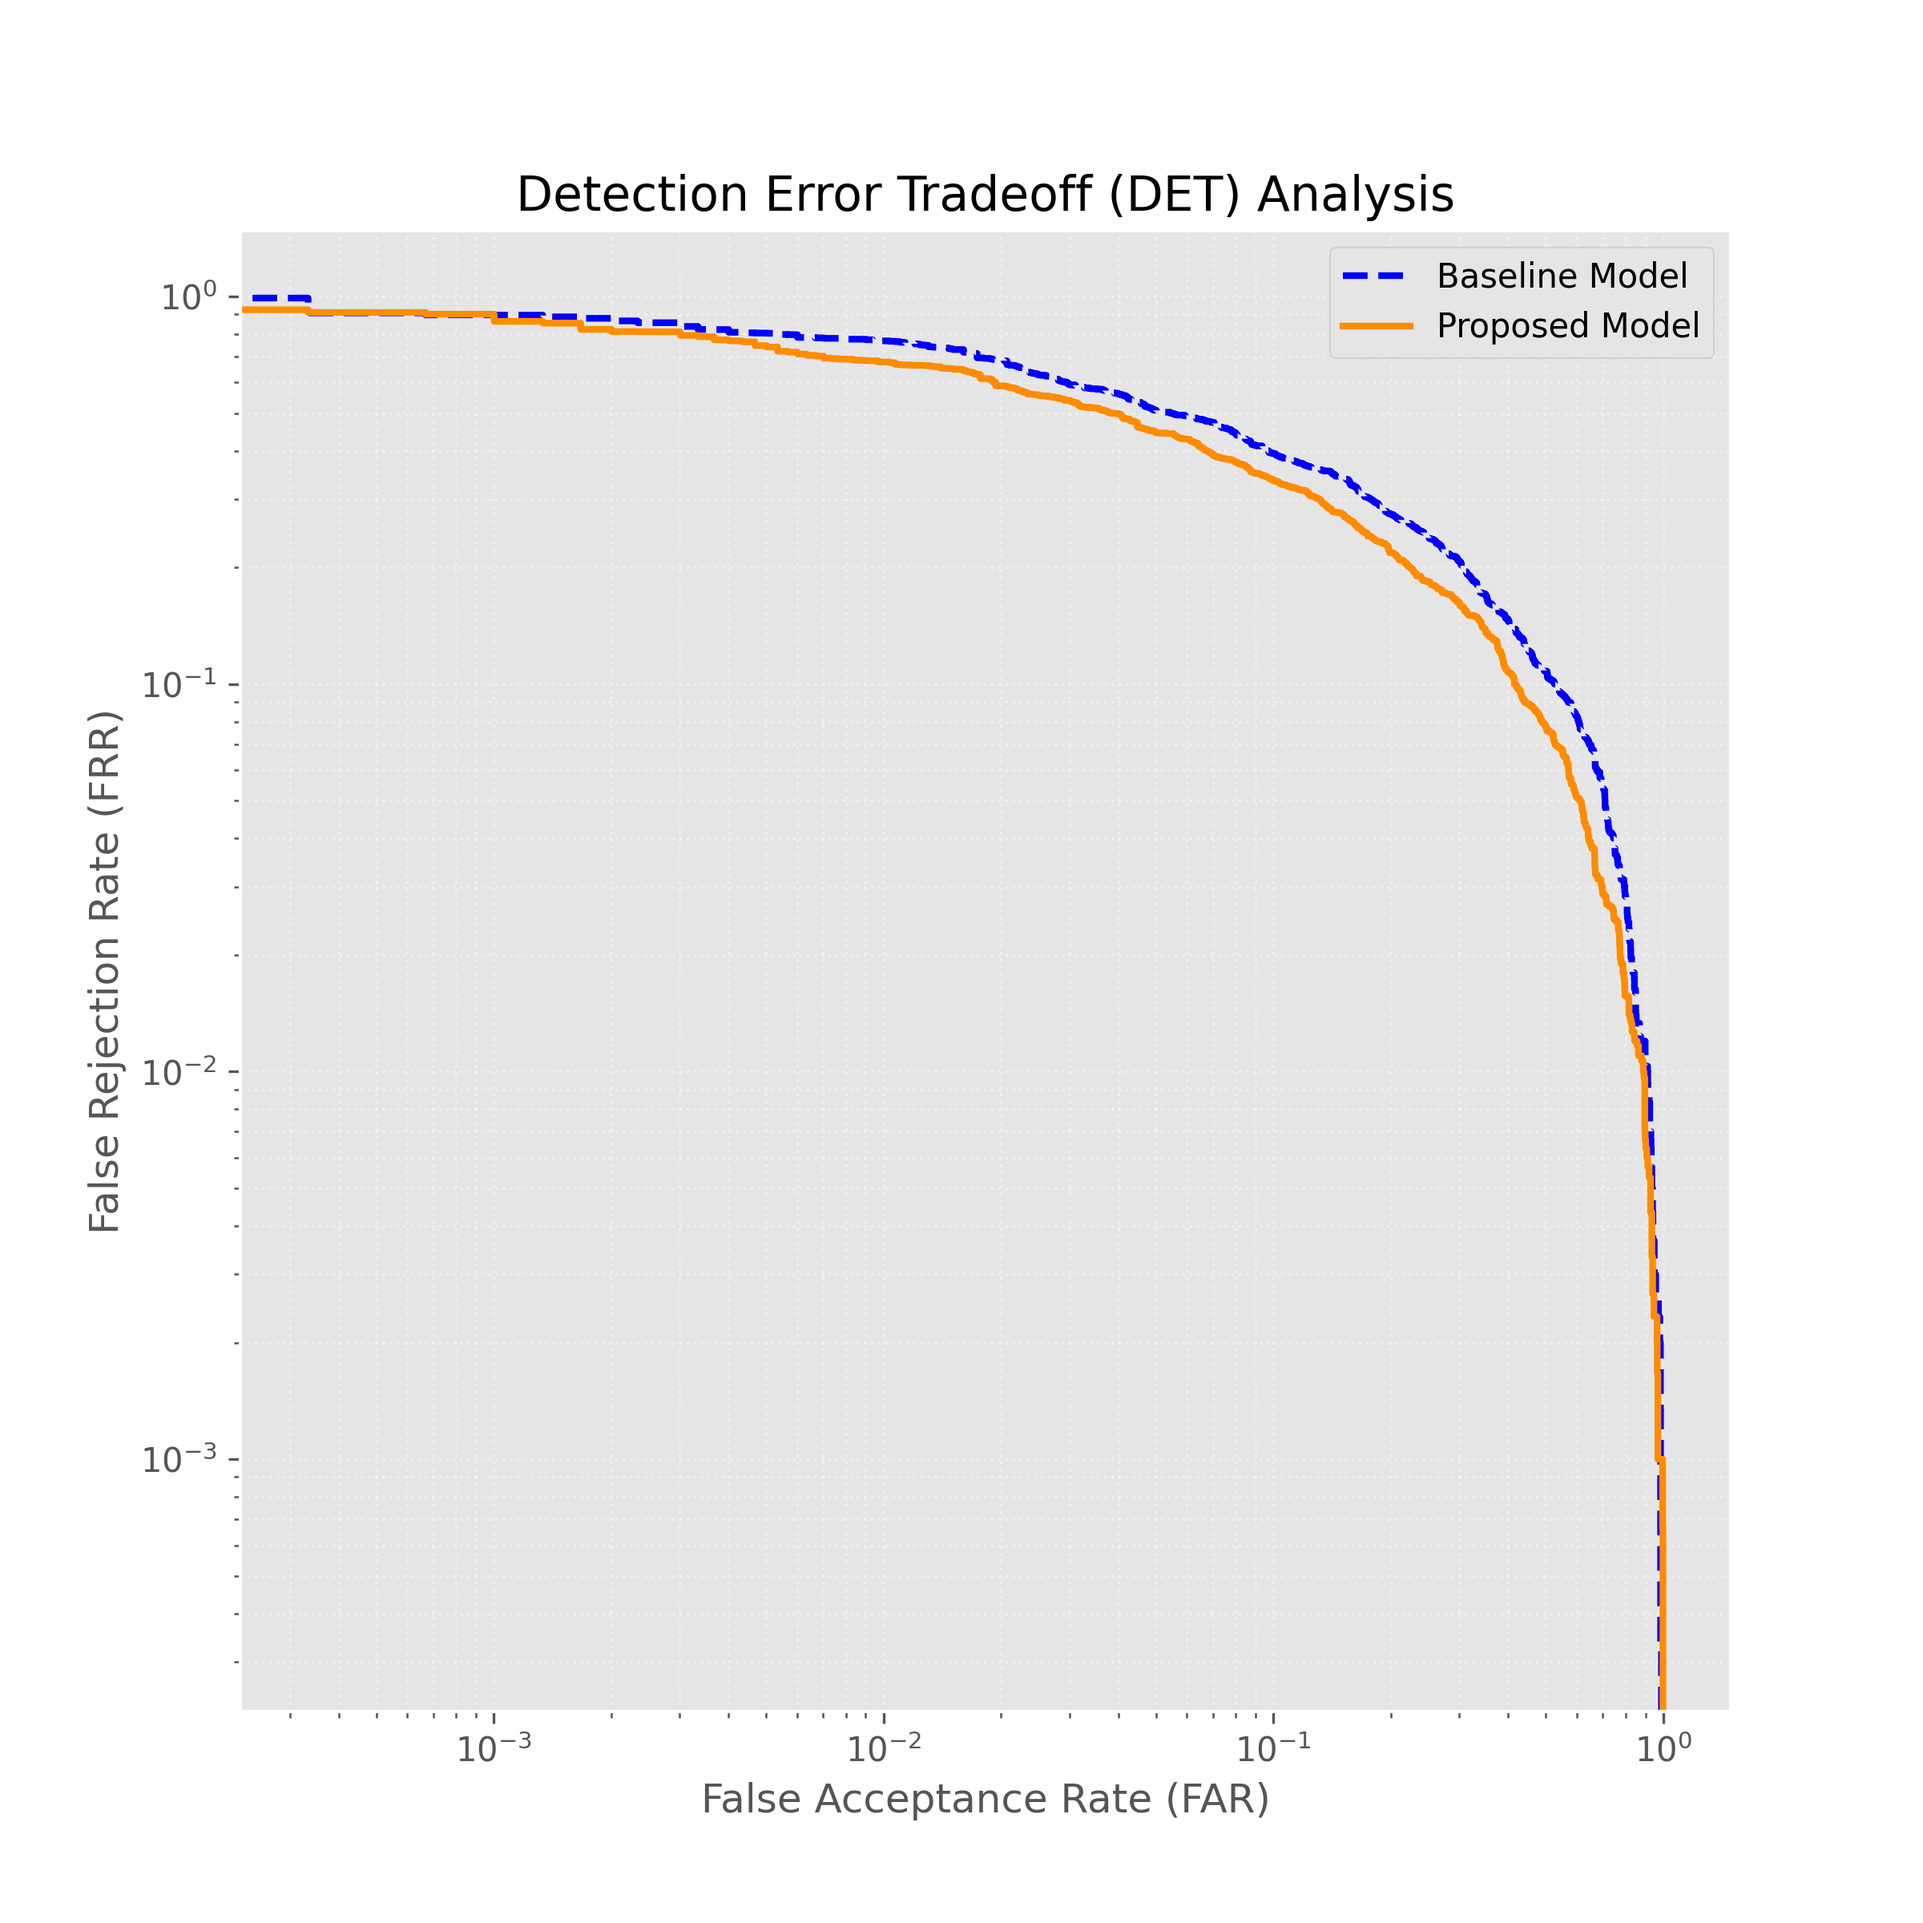
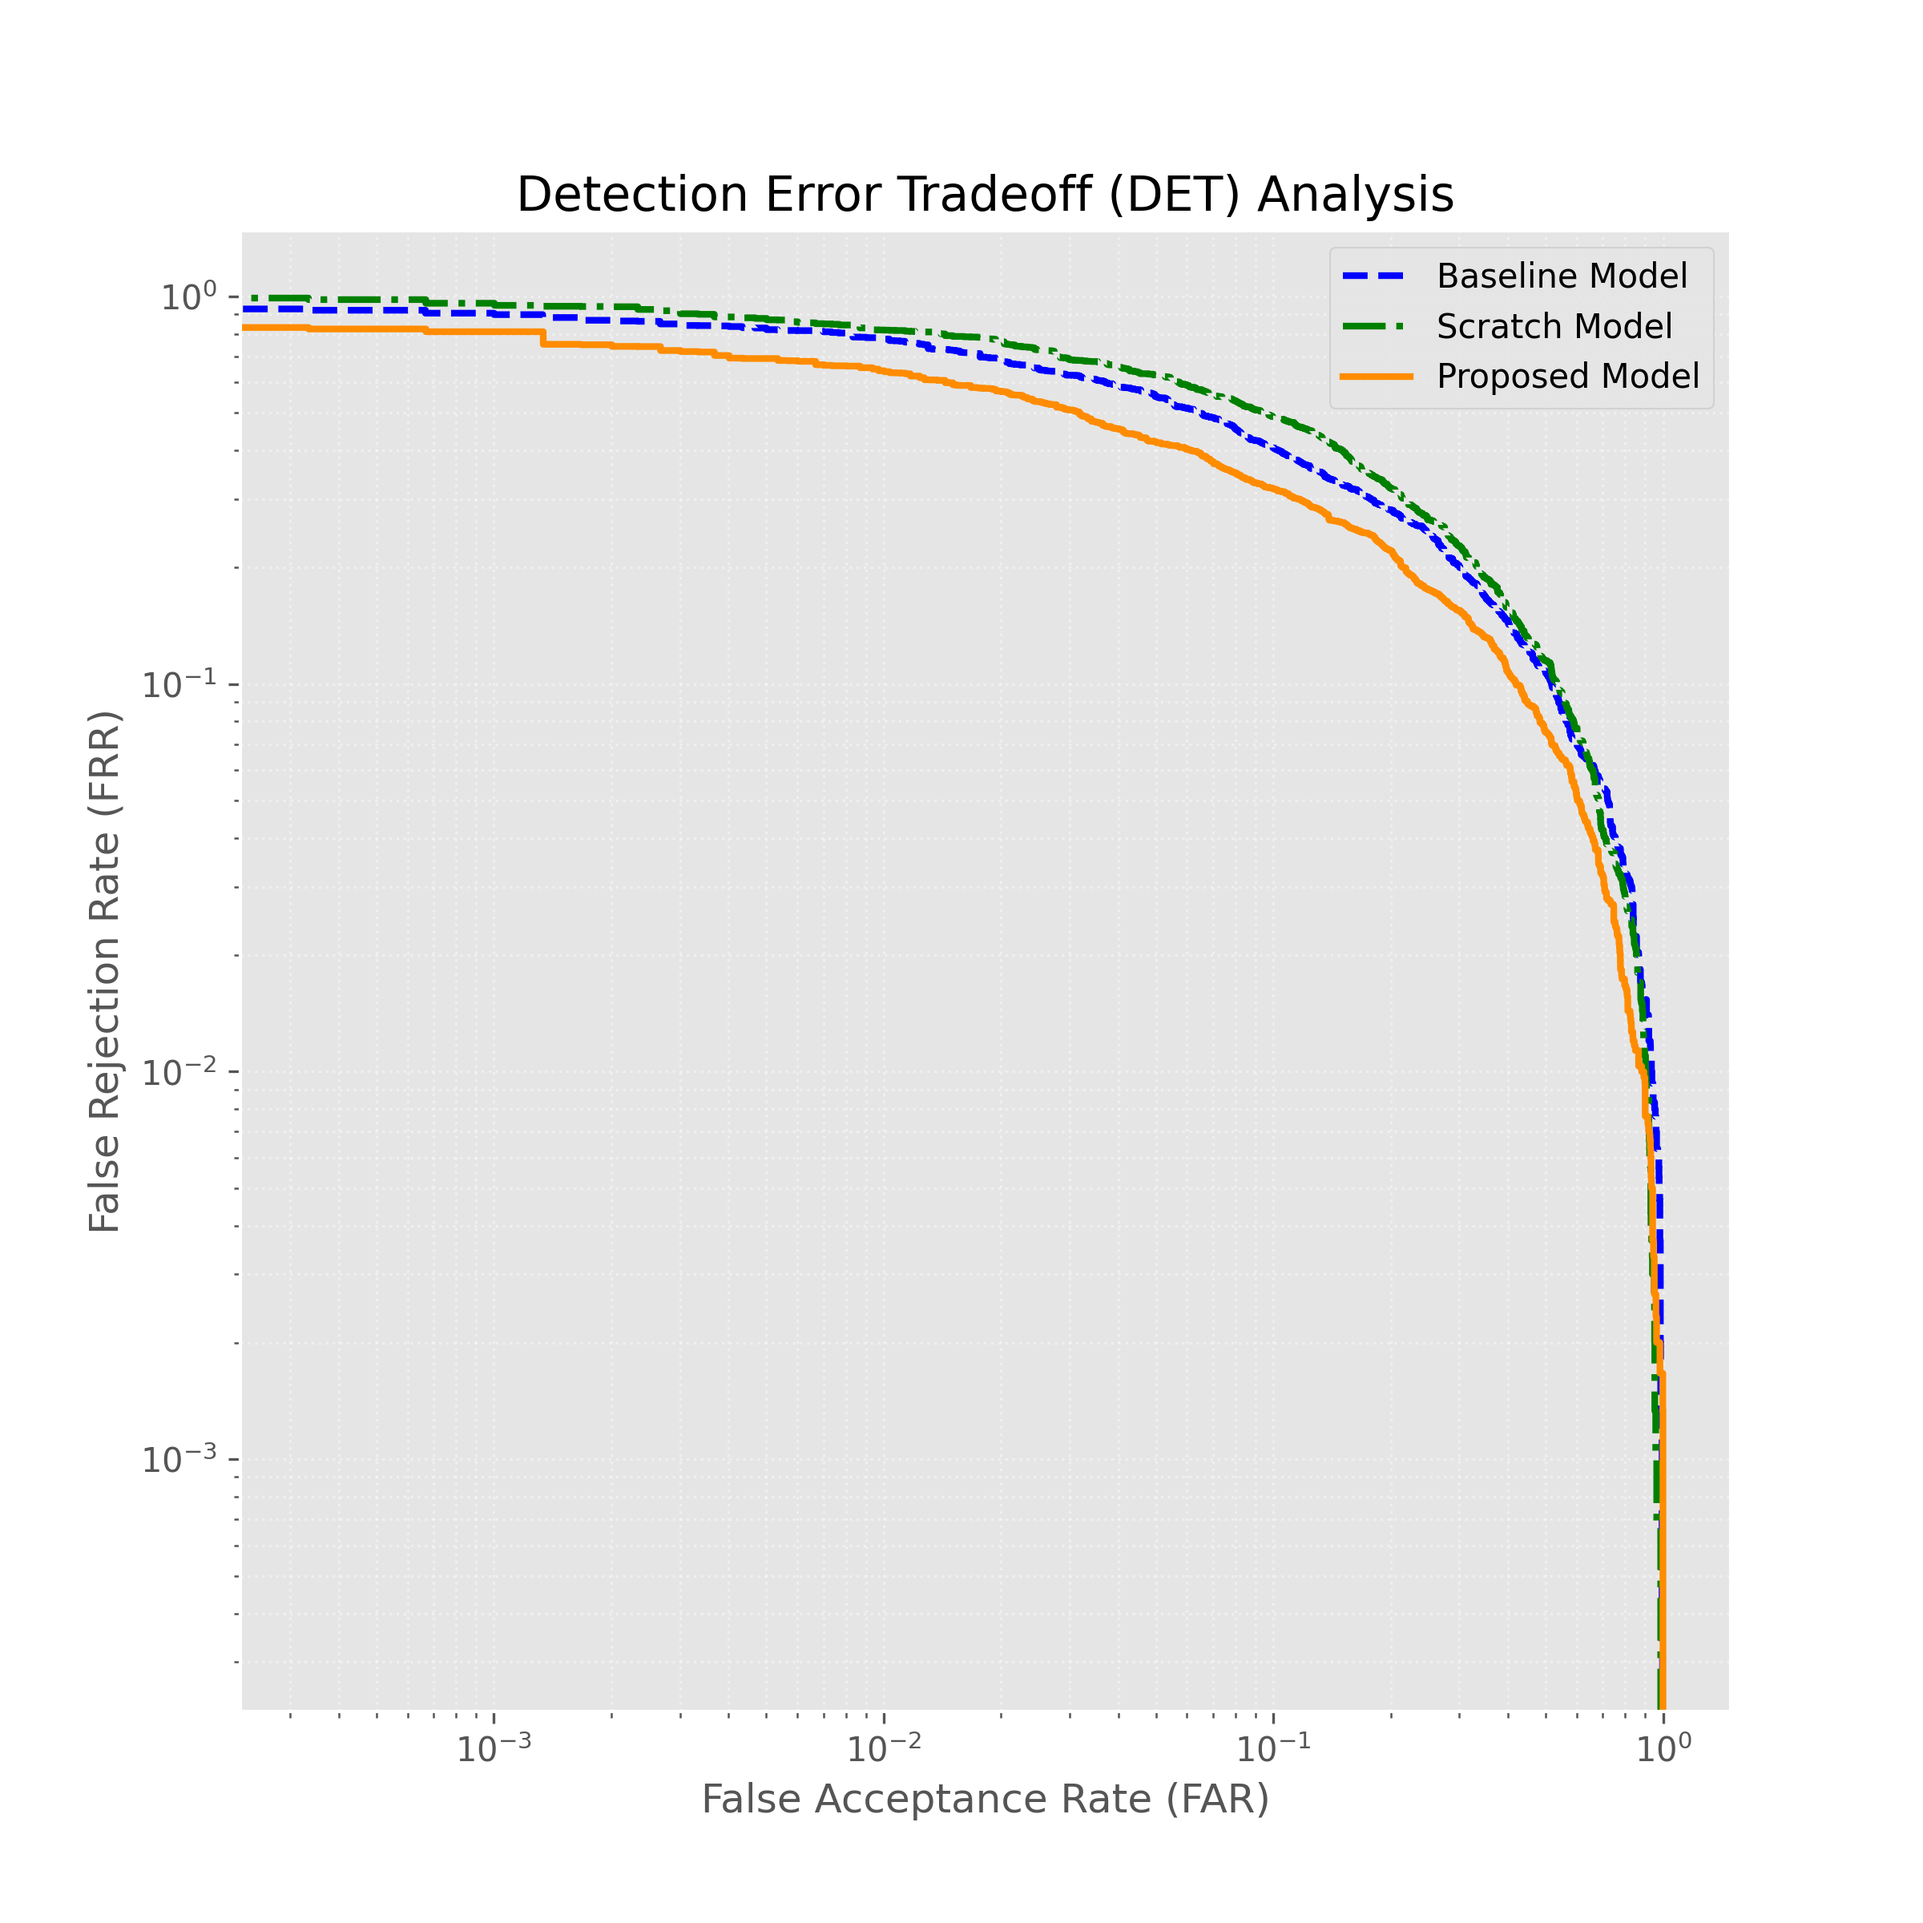
Update comparison visuals, training scripts, and charts

diff --git a/comparative_visuals.py b/comparative_visuals.py
@@ -3,6 +3,7 @@ import torch.nn.functional as F
 from torch.utils.data import DataLoader
 from torchvision import datasets, transforms
 from model import Sim2RealBackbone
+from model_scratch import Sim2RealBackbone as ScratchBackbone
 from sklearn.manifold import TSNE
 from sklearn.metrics import roc_curve, det_curve
 import matplotlib.pyplot as plt
@@ -15,15 +16,16 @@ from tqdm import tqdm
 LFW_DIR = "./dataset/lfw_aligned"
 BASELINE_PATH = "./saved_models/baseline_model.pth"
 PROPOSED_PATH = "./saved_models/best_model.pth"
+SCRATCH_PATH = "./saved_models/best_scratch_model.pth"
 DEVICE = "cuda" if torch.cuda.is_available() else "cpu"
 OUTPUT_DIR = "./final_comparison_plots"
 os.makedirs(OUTPUT_DIR, exist_ok=True)
 
 plt.style.use('ggplot')
 
-def get_scores_and_embeddings(model_path, dataset):
+def get_scores_and_embeddings(model_path, dataset, model_class=Sim2RealBackbone):
     print(f"Processing {os.path.basename(model_path)}...")
-    model = Sim2RealBackbone(pretrained=False).to(DEVICE)
+    model = model_class(pretrained=False).to(DEVICE)
     model.load_state_dict(torch.load(model_path, map_location=DEVICE))
     model.eval()
     
@@ -71,9 +73,9 @@ def calculate_pair_scores(embeddings, labels, num_pairs=3000):
             
     return pos_scores, neg_scores
 
-def plot_histogram_comparison(b_pos, b_neg, p_pos, p_neg):
+def plot_histogram_comparison(b_pos, b_neg, s_pos, s_neg, p_pos, p_neg):
     """ SCORE DISTRIBUTION """
-    fig, axes = plt.subplots(1, 2, figsize=(14, 6), sharey=True)
+    fig, axes = plt.subplots(1, 3, figsize=(21, 6), sharey=True)
     
     # Baseline
     sns.kdeplot(b_neg, fill=True, color='red', label='Different IDs', ax=axes[0], alpha=0.3)
@@ -84,25 +86,39 @@ def plot_histogram_comparison(b_pos, b_neg, p_pos, p_neg):
     axes[0].legend()
     axes[0].grid(True, alpha=0.3)
 
-    # Proposed
-    sns.kdeplot(p_neg, fill=True, color='red', label='Different IDs', ax=axes[1], alpha=0.3)
-    sns.kdeplot(p_pos, fill=True, color='green', label='Same IDs', ax=axes[1], alpha=0.3)
-    axes[1].set_title(f"Proposed (Texture-Regularized)")
+    # Scratch
+    sns.kdeplot(s_neg, fill=True, color='red', label='Different IDs', ax=axes[1], alpha=0.3)
+    sns.kdeplot(s_pos, fill=True, color='green', label='Same IDs', ax=axes[1], alpha=0.3)
+    axes[1].set_title(f"Scratch Model")
     axes[1].set_xlabel("Cosine Similarity")
     axes[1].set_xlim(-0.5, 1.0)
     axes[1].legend()
     axes[1].grid(True, alpha=0.3)
+
+    # Proposed
+    sns.kdeplot(p_neg, fill=True, color='red', label='Different IDs', ax=axes[2], alpha=0.3)
+    sns.kdeplot(p_pos, fill=True, color='green', label='Same IDs', ax=axes[2], alpha=0.3)
+    axes[2].set_title(f"Proposed (Texture-Regularized)")
+    axes[2].set_xlabel("Cosine Similarity")
+    axes[2].set_xlim(-0.5, 1.0)
+    axes[2].legend()
+    axes[2].grid(True, alpha=0.3)
     
     plt.suptitle("Impact of Shape Bias on Score Separation", fontsize=16)
     plt.savefig(f"{OUTPUT_DIR}/cmp_1_histograms.png", dpi=300)
     print("Saved Histogram.")
 
-def plot_det_comparison(b_pos, b_neg, p_pos, p_neg):
+def plot_det_comparison(b_pos, b_neg, s_pos, s_neg, p_pos, p_neg):
     """ DET CURVE (Security Standard) """
     # Baseline Metrics
     b_y_true = [1]*len(b_pos) + [0]*len(b_neg)
     b_y_score = b_pos + b_neg
     fpr_b, fnr_b, _ = det_curve(b_y_true, b_y_score)
+
+    # Scratch Metrics
+    s_y_true = [1]*len(s_pos) + [0]*len(s_neg)
+    s_y_score = s_pos + s_neg
+    fpr_s, fnr_s, _ = det_curve(s_y_true, s_y_score)
     
     # Proposed Metrics
     p_y_true = [1]*len(p_pos) + [0]*len(p_neg)
@@ -111,6 +127,7 @@ def plot_det_comparison(b_pos, b_neg, p_pos, p_neg):
     
     plt.figure(figsize=(8, 8))
     plt.plot(fpr_b, fnr_b, label="Baseline Model", color="blue", linestyle="--", lw=2)
+    plt.plot(fpr_s, fnr_s, label="Scratch Model", color="green", linestyle="-.", lw=2)
     plt.plot(fpr_p, fnr_p, label="Proposed Model", color="darkorange", lw=2)
     
     plt.xscale('log')
@@ -134,14 +151,18 @@ def main():
     #  Data for Baseline
     emb_b, lbl_b = get_scores_and_embeddings(BASELINE_PATH, dataset)
     b_pos, b_neg = calculate_pair_scores(emb_b, lbl_b)
+
+    #  Data for Scratch
+    emb_s, lbl_s = get_scores_and_embeddings(SCRATCH_PATH, dataset, model_class=ScratchBackbone)
+    s_pos, s_neg = calculate_pair_scores(emb_s, lbl_s)
     
     #  Data for Proposed
     emb_p, lbl_p = get_scores_and_embeddings(PROPOSED_PATH, dataset)
     p_pos, p_neg = calculate_pair_scores(emb_p, lbl_p)
     
     # Plot Comparison Charts
-    plot_histogram_comparison(b_pos, b_neg, p_pos, p_neg)
-    plot_det_comparison(b_pos, b_neg, p_pos, p_neg)
+    plot_histogram_comparison(b_pos, b_neg, s_pos, s_neg, p_pos, p_neg)
+    plot_det_comparison(b_pos, b_neg, s_pos, s_neg, p_pos, p_neg)
     
     print("\nCharts generated in folder:", OUTPUT_DIR)
 

diff --git a/compare.py b/compare.py
@@ -3,6 +3,7 @@ import torch.nn.functional as F
 from torch.utils.data import DataLoader
 from torchvision import datasets, transforms
 from model import Sim2RealBackbone
+from model_scratch import Sim2RealBackbone as ScratchBackbone
 from sklearn.metrics import auc, roc_curve
 import matplotlib.pyplot as plt
 import numpy as np
@@ -13,24 +14,28 @@ from tqdm import tqdm
 LFW_DIR = "./dataset/lfw_aligned"
 BASELINE_PATH = "./saved_models/baseline_model.pth"
 PROPOSED_PATH = "./saved_models/best_model.pth" 
+SCRATCH_PATH = "./saved_models/best_scratch_model.pth"
 DEVICE = torch.device("cuda" if torch.cuda.is_available() else "cpu")
 PAIRS_TO_TEST = 12000
 
-def get_roc_data(model_path, dataset, pos_pairs, neg_pairs, label_name):
+def get_roc_data(model_path, dataset, pos_pairs, neg_pairs, label_name, model_class):
     print(f"\n--- Testing {label_name} ---")
     if not os.path.exists(model_path):
         print(f"Error: {model_path} not found.")
         return None, None, 0.0
 
-    model = Sim2RealBackbone(pretrained=False).to(DEVICE)
-    model.load_state_dict(torch.load(model_path, map_location=DEVICE))
+    model = model_class(pretrained=False).to(DEVICE)
+    try:
+        model.load_state_dict(torch.load(model_path, map_location=DEVICE))
+    except RuntimeError as e:
+        print(f"Error loading state dict for {label_name}: {e}")
+        return None, None, 0.0
+
     model.eval()
-    
-    # embeddings efficiently
+  
     all_pairs = pos_pairs + neg_pairs
     all_labels = [1] * len(pos_pairs) + [0] * len(neg_pairs)
     
-    # Unique Loader
     unique_indices = list(set([p[0] for p in all_pairs] + [p[1] for p in all_pairs]))
     index_map = {idx: i for i, idx in enumerate(unique_indices)}
     subset = torch.utils.data.Subset(dataset, unique_indices)
@@ -58,6 +63,7 @@ def get_roc_data(model_path, dataset, pos_pairs, neg_pairs, label_name):
 
 def main():
     if not os.path.exists(PROPOSED_PATH):
+        print(f"Proposed path {PROPOSED_PATH} not found.")
         return
 
     transform = transforms.Compose([
@@ -84,20 +90,26 @@ def main():
         while targets[idx1] == targets[idx2]: idx1, idx2 = random.sample(range(len(full_lfw)), 2)
         neg_pairs.append((idx1, idx2))
 
-    fpr_b, tpr_b, auc_b = get_roc_data(BASELINE_PATH, full_lfw, pos_pairs, neg_pairs, "Baseline")
-    fpr_p, tpr_p, auc_p = get_roc_data(PROPOSED_PATH, full_lfw, pos_pairs, neg_pairs, "Proposed")
+    fpr_b, tpr_b, auc_b = get_roc_data(BASELINE_PATH, full_lfw, pos_pairs, neg_pairs, "Baseline", Sim2RealBackbone)
+    fpr_p, tpr_p, auc_p = get_roc_data(PROPOSED_PATH, full_lfw, pos_pairs, neg_pairs, "Proposed", Sim2RealBackbone)
+    fpr_s, tpr_s, auc_s = get_roc_data(SCRATCH_PATH, full_lfw, pos_pairs, neg_pairs, "Scratch", ScratchBackbone)
 
     plt.figure(figsize=(10, 8))
-    plt.plot(fpr_b, tpr_b, color='blue', lw=2, linestyle='--', label=f'Baseline (No Blur) AUC = {auc_b:.2f}')
-    plt.plot(fpr_p, tpr_p, color='darkorange', lw=2, label=f'Proposed (With Blur) AUC = {auc_p:.2f}')
+    if fpr_b is not None:
+        plt.plot(fpr_b, tpr_b, color='navy', lw=3, linestyle='--', label=f'Baseline (No Blur) AUC = {auc_b:.2f}')
+    if fpr_p is not None:
+        plt.plot(fpr_p, tpr_p, color='crimson', lw=3, label=f'Proposed (With Blur) AUC = {auc_p:.2f}')
+    if fpr_s is not None:
+        plt.plot(fpr_s, tpr_s, color='darkorange', lw=3, linestyle='-.', label=f'Scratch AUC = {auc_s:.2f}')
+        
     plt.plot([0, 1], [0, 1], color='gray', linestyle=':')
     plt.xlabel('False Positive Rate')
     plt.ylabel('True Positive Rate')
-    plt.title('Sim2Real Gap Analysis: Texture Regularization Impact')
+    plt.title('Sim2Real Gap Analysis: Comparison with Scratch')
     plt.legend(loc="lower right")
     plt.grid(True, alpha=0.3)
-    plt.savefig('./final_comparison_plots/final_comparison_chart.png')
-    print("Graph saved to final_comparison_chart.png")
+    plt.savefig('./final_comparison_plots/final_comparison_chart_with_scratch.png')
+    print("Graph saved to final_comparison_chart_with_scratch.png")
 
 if __name__ == "__main__":
     main()

diff --git a/train.py b/train.py
@@ -25,6 +25,7 @@ def plot_training_history(history):
     ax1.set_title("Real Training Loss Convergence")
     ax1.set_xlabel("Epochs")
     ax1.set_ylabel("Loss")
+    ax1.set_xticks(np.arange(min(epochs), max(epochs)+1, 2)) # Steps of 2 to avoid overlap
     ax1.grid(True, alpha=0.3)
     ax1.legend()
 
@@ -33,12 +34,14 @@ def plot_training_history(history):
     ax2.set_title("Sim2Real Generalization Gap")
     ax2.set_xlabel("Epochs")
     ax2.set_ylabel("Accuracy (%)")
+    ax2.set_xticks(np.arange(min(epochs), max(epochs)+1, 2)) # Steps of 2 to avoid overlap
     ax2.grid(True, alpha=0.3)
     ax2.legend()
     
     save_path = os.path.join("training_dynamics_chart.png")
     plt.savefig(save_path, dpi=300)
     print(f"Chart Saved to: {save_path}")
+    
 
 def main():
     device = torch.device("cuda" if torch.cuda.is_available() else "cpu")
